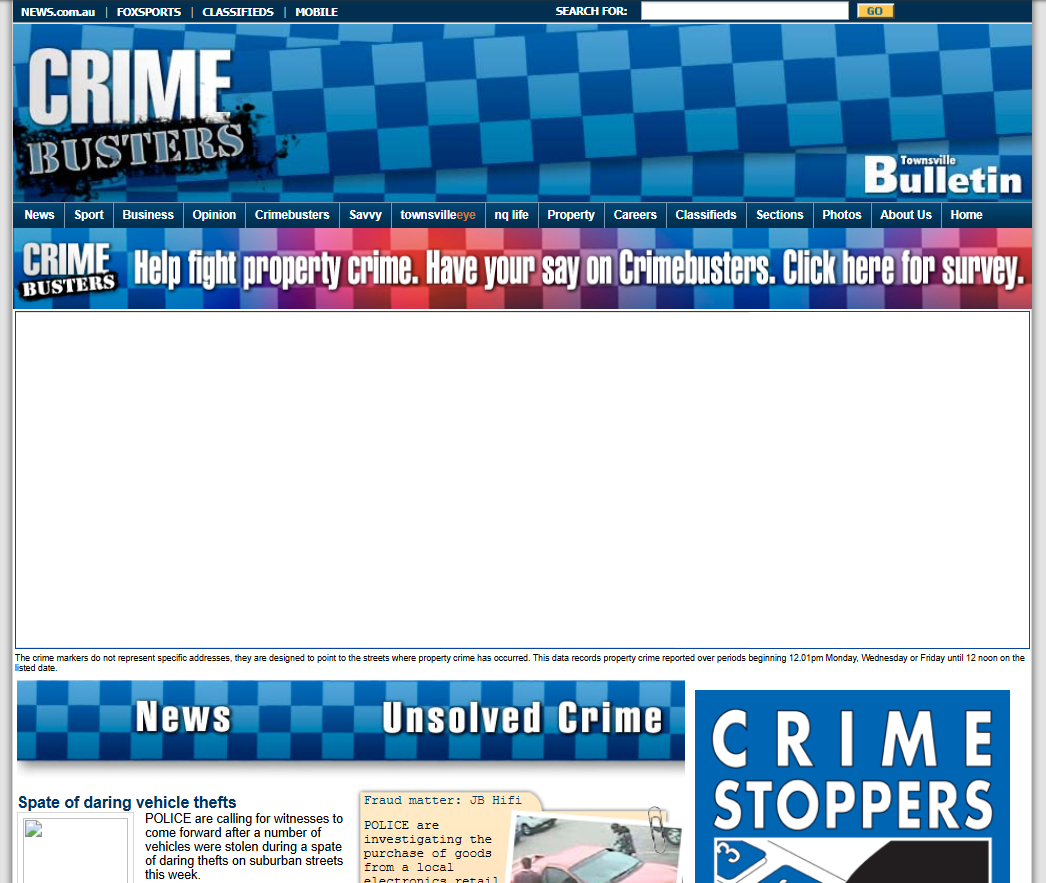
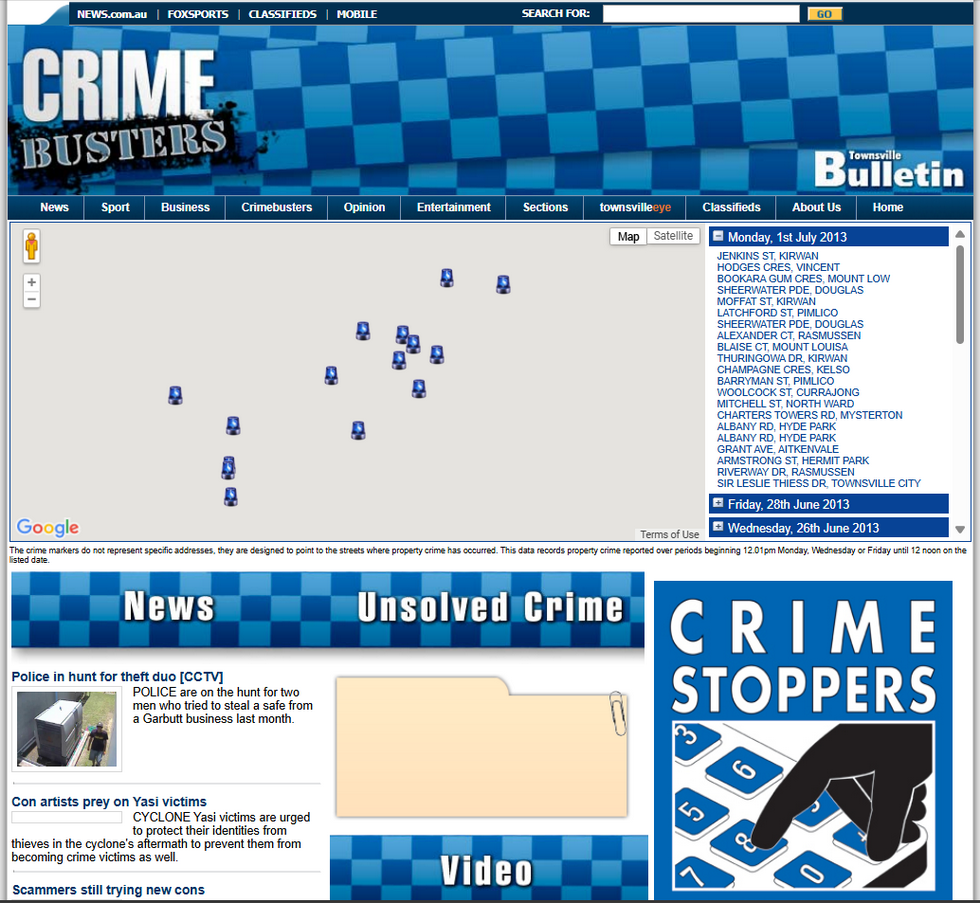
More iframe demo changes

diff --git a/iframe-demo.html b/iframe-demo.html
@@ -23,6 +23,7 @@
       background-color: #e1e1e1;
       background-position: center;
       background-position-y: top;
+      overflow-y: scroll;
     "
   >
   <div style="display: flex;
@@ -33,13 +34,18 @@
     <iframe
       title="iframe-test"
       src="index.html"
-      style="height: 334px;
+      style="height: 317px;
       position: absolute;
-      
-      top: 312px;
-      width: 1012px;
+      background-color: white;
+      top: 223px;
+      width: 958px;
       border: none;"
     ></iframe>
     </div>
+    <div style="
+    position: absolute;
+    top: 100px;
+    left: 400px;
+    "></div>
   </body>
 </html>

diff --git a/README.md b/README.md
@@ -21,6 +21,8 @@ I created this to outline my skills, ability to upgrade old code without origina
 **No external JavaScript frameworks such as Angular or React where used.**
 
 ### Old Code Written by myself in 2010
+<https://web.archive.org/web/20120224161647/http://www.townsvillebulletin.com.au/crimebusters/>
+
 I used multiple resources to find and download the HTML and related `.css`, `.js` as well as related images.
 
 Ended up directly downloading the code, removing Wayback Machine code and links:
